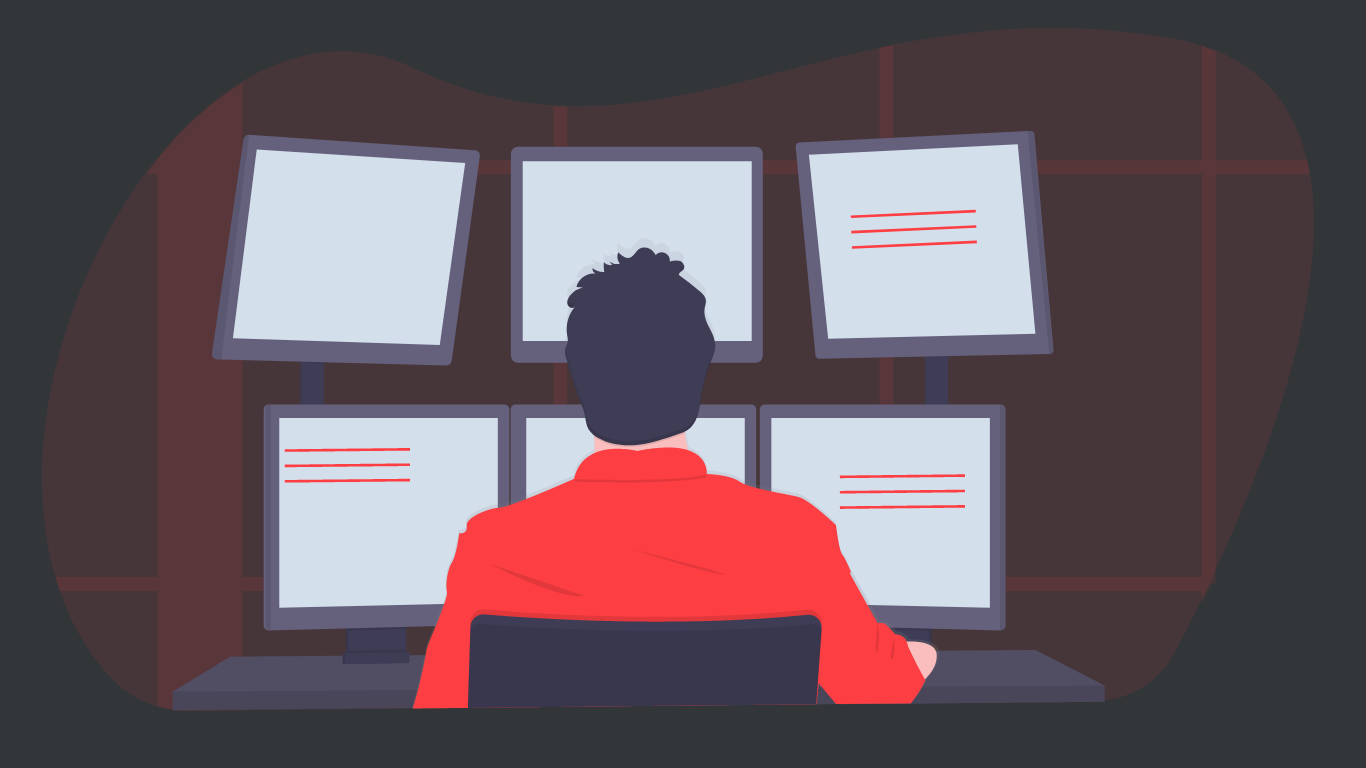
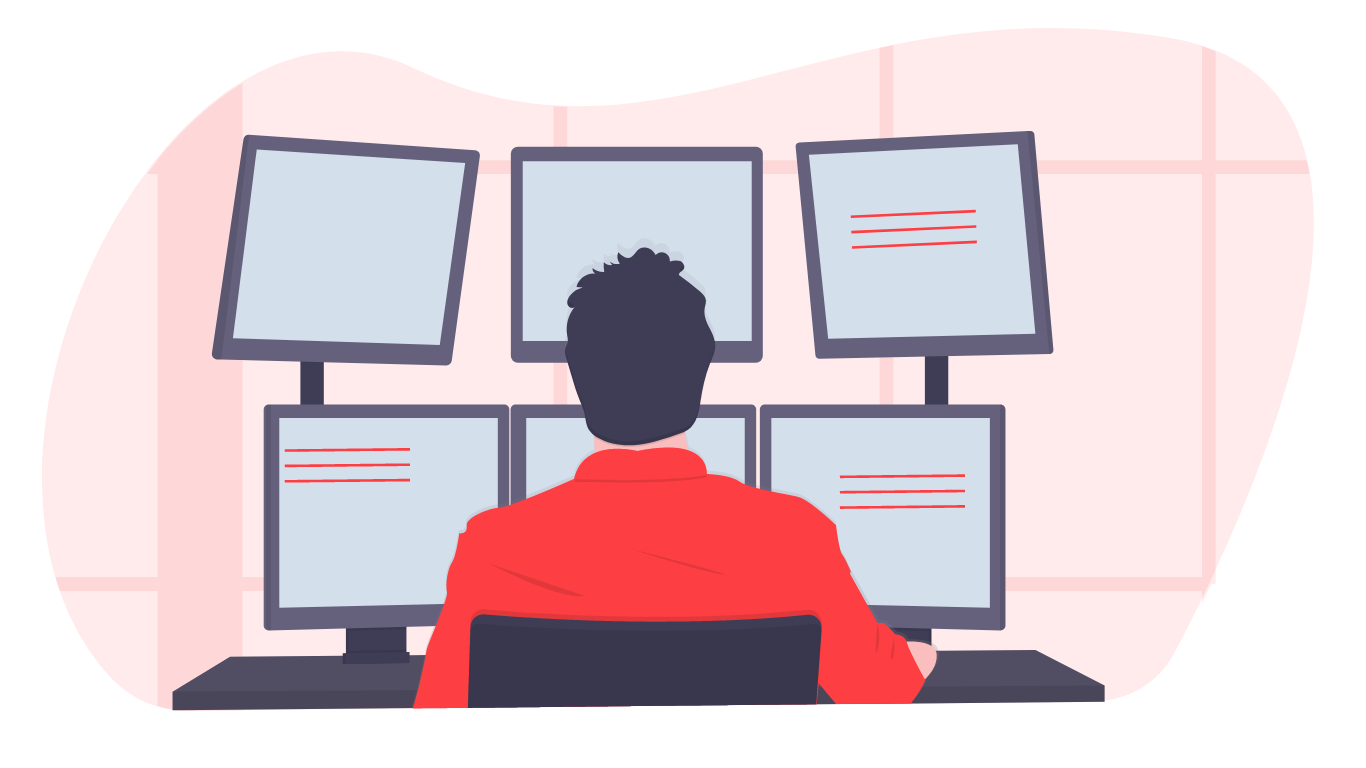
first commit

diff --git a/index.html b/index.html
@@ -9,11 +9,12 @@
     <link rel="stylesheet" href="css/bootstrap.min.css" />
     <link rel="stylesheet" href="https://cdn.jsdelivr.net/npm/bootstrap-icons@1.5.0/font/bootstrap-icons.css" />
     <link rel="stylesheet" href="css/my.css" />
+    <link href="https://unpkg.com/boxicons@2.0.9/css/boxicons.min.css" rel="stylesheet" />
 
     <!--AOS -->
     <link rel="stylesheet" href="https://unpkg.com/aos@next/dist/aos.css" />
   </head>
-  <body class="bg-dark">
+  <body>
     <!-- Nav -->
     <nav class="navbar navbar-dark fixed-top bg-dark shadow-lg">
       <div class="container-lg">
@@ -36,7 +37,7 @@
     <!-- Home -->
     <section class="home py-5" id="home">
       <div class="container-lg">
-        <div class="row bg-dark min-vh-100 align-items-center align-content-center">
+        <div class="row bg-light min-vh-100 align-items-center align-content-center">
           <div class="col-md-6 mt-5 mt-md-0">
             <div class="home-img text-center">
               <img src="img/bg.png" class="mw-100" alt="profile img" />
@@ -46,9 +47,9 @@
             <div class="home-text">
               <p class="text-muted mb-1" data-aos="fade-right" data-aos-duration="2000" data-aos-delay="100">Hello I'm</p>
               <h1 class="text">Web developer | ui/ux designer</h1>
-              <h2 class="fs-4 text-white" data-aos="fade-left" data-aos-anchor="#example-anchor" data-aos-offset="500" data-aos-duration="2500">Joddy Lintar Balle</h2>
+              <h2 class="fs-4 text-dark" data-aos="fade-left" data-aos-anchor="#example-anchor" data-aos-offset="500" data-aos-duration="2500">Joddy Lintar Balle</h2>
               <p class="mt-4 text-muted">
-                I am interested in becoming a web developer. I started learning web development by making ui web designs or applications. Then when I was in college I majored in Computer Engineering, IPB University Vocational School. Until
+                I am interested in becoming a web developer. I started learning web developer by making ui web designs or applications. Then when I was in college I majored in Computer Engineering, IPB University Vocational School. Until
                 now, I am still active in studying front-end developers and web/app design. For more details, I include it in the projects section
               </p>
               <a href="#projects" class="btn btn-danger px-3 mt-3">My Projects</a>
@@ -65,7 +66,7 @@
         <div class="row justify-content-center">
           <div class="col-lg-8">
             <div class="section-title text-center">
-              <h2 class="fw-bold mb-5 text-light">About Me</h2>
+              <h2 class="fw-bold mb-5 text-dark">About Me</h2>
             </div>
           </div>
         </div>
@@ -77,12 +78,12 @@
           </div>
           <div class="col-md-8">
             <div class="about-text">
-              <h3 class="fs-4 mb-3 text-light">I'm Joddy Lintar Balle and I'm a <span class="text-danger"> WEB DEVELOPMENT </span></h3>
+              <h3 class="fs-4 mb-3 text-dark">I'm Joddy Lintar Balle and I'm a <span class="text-danger"> WEB DEVELOPER </span></h3>
               <p class="text-muted">
                 Hello! I am Joddy Lintar Balle Born in Minangkabau land. I obtained a D3 degree in Computer Engineering from the Vocational School of Ipb University in 2021. I had an interest in Web developers while in college and, I was
                 very active in making UI/UX Web designs. I am a creative person and like to find alternative solutions to various problems. I'm also open to all possible solutions. Creativity helps me to be a good leader because I can
                 anticipate various problems Science major. I can operate a computer well. I am very enthusiastic about everything programming and always feel challenged to work on new projects making web or mobile-based applications. I can
-                design web or applications. I'm also proficient in Adobe xd software, Adobe illustrator, and front-end development.
+                design web or applications. I'm also proficient in Adobe xd software, Adobe illustrator, and front-end developer.
               </p>
             </div>
             <div class="row">
@@ -92,7 +93,7 @@
                   <a href="https://www.facebook.com/joddy.l.balle/" class="text-danger me-2"><i class="fab fa-facebook-f"></i></a>
                   <a href="https://twitter.com/joddylintar2" class="text-danger me-2"><i class="fab fa-twitter"></i></a>
                   <a href="https://www.instagram.com/joddy_balle/" class="text-danger me-2"><i class="fab fa-instagram"></i></a>
-                  <a href="https://www.linkedin.com/in/joddy-lintarballe-b25a59218/" class="text-danger me-2"><i class="fab fa-linkedin-in"></i></a>
+                  <a href="https://www.linkedin.com/in/joddyballe/" class="text-danger me-2"><i class="fab fa-linkedin-in"></i></a>
                 </div>
               </div>
             </div>
@@ -102,71 +103,13 @@
     </section>
     <!-- akhir about me -->
 
-    <!-- my skills -->
-    <section class="skills py-5" id="skills">
-      <div class="container-lg py-4" data-aos="fade-in">
-        <div class="row justify-content-center">
-          <div class="col-lg-8">
-            <div class="section-title text-center">
-              <h2 class="fw-bold mb-5 text-light">My skills</h2>
-            </div>
-          </div>
-        </div>
-        <div class="row">
-          <div class="col-md-6">
-            <div class="skills-text">
-              <h3 class="fs-4 mb-3 text-light">I'm Freshgraduate</h3>
-              <p class="text-muted">
-                I am a creative person and like to find alternative solutions to various problems. I'm also open to all the possible solutions. Creativity helps me to be a good leader because I can anticipate various problems. I can operate
-                a computer well. I am very enthusiastic about everything programming and always feel challenged to work on new projects making web or mobile-based applications. I can design web or applications. I'm also proficient in Adobe
-                xd software, Adobe illustrator, and front-end development.
-              </p>
-            </div>
-          </div>
-          <div class="col-md-6 mt-5 mt-md-0">
-            <div class="skills-item mb-4">
-              <h3 class="fs-6 text-muted">Html</h3>
-              <div class="progress" style="height: 12px">
-                <div class="progress-bar bg-danger" role="progressbar" style="width: 70%" aria-valuenow="70" aria-valuemin="0" aria-valuemax="100"></div>
-              </div>
-            </div>
-            <div class="skills-item mb-4">
-              <h3 class="fs-6 text-muted">Css</h3>
-              <div class="progress" style="height: 12px">
-                <div class="progress-bar bg-danger" role="progressbar" style="width: 60%" aria-valuenow="60" aria-valuemin="0" aria-valuemax="100"></div>
-              </div>
-            </div>
-            <div class="skills-item mb-4">
-              <h3 class="fs-6 text-muted">javascript</h3>
-              <div class="progress" style="height: 12px">
-                <div class="progress-bar bg-danger" role="progressbar" style="width: 40%" aria-valuenow="40" aria-valuemin="0" aria-valuemax="100"></div>
-              </div>
-            </div>
-            <div class="skills-item mb-4">
-              <h3 class="fs-6 text-muted">Adobe illustrator</h3>
-              <div class="progress" style="height: 12px">
-                <div class="progress-bar bg-danger" role="progressbar" style="width: 60%" aria-valuenow="60" aria-valuemin="0" aria-valuemax="100"></div>
-              </div>
-            </div>
-            <div class="skills-item mb-4">
-              <h3 class="fs-6 text-muted">Adobe Xd</h3>
-              <div class="progress" style="height: 12px">
-                <div class="progress-bar bg-danger" role="progressbar" style="width: 75%" aria-valuenow="75" aria-valuemin="0" aria-valuemax="100"></div>
-              </div>
-            </div>
-          </div>
-        </div>
-      </div>
-    </section>
-    <!-- akhir my skills -->
-
     <!-- services -->
     <section class="services py-5" id="services">
       <div class="container-lg py-4" data-aos="fade-in">
         <div class="row justify-content-center">
           <div class="col-lg-8">
             <div class="section-title text-center">
-              <h2 class="fw-bold mb-5 text-white">What I Do</h2>
+              <h2 class="fw-bold mb-5 text-dark">MySkills</h2>
             </div>
           </div>
         </div>
@@ -176,15 +119,17 @@
               <div class="icon my-3 text-danger fs-2">
                 <i class="fas fa-code"></i>
               </div>
-              <h3 class="fs-5 py-2 text-white">Web Development</h3>
+              <h3 class="fs-5 py-2 text-white">Front End Developer</h3>
+              <h4 class="fs-5 py-2 text-muted">CSS | Html | JavaScrip | Bootstrap</h4>
             </div>
           </div>
           <div class="col-md-6 col-lg-4 mb-5">
-            <div class="services-item shadow-lg p-4 rounded bg-white">
+            <div class="services-item shadow-lg p-4 rounded bg-dark">
               <div class="icon my-3 text-danger fs-2">
-                <i class="fas fa-code"></i>
+                <i class="fas fa-laptop"></i>
               </div>
-              <h3 class="fs-5 py-2">front end developer</h3>
+              <h3 class="fs-5 py-2 text-white">Software</h3>
+              <h4 class="fs-5 py-2 text-muted">Adobe Illustratore | Photoshop | Blender</h4>
             </div>
           </div>
           <div class="col-md-6 col-lg-4 mb-5">
@@ -192,7 +137,8 @@
               <div class="icon my-3 text-danger fs-2">
                 <i class="fas fa-lightbulb shadow"></i>
               </div>
-              <h3 class="fs-5 py-2 text-light">UI/UX Designer</h3>
+              <h3 class="fs-5 py-2 text-white">UI/UX Designer</h3>
+              <h4 class="fs-5 py-2 text-muted">Adobe Xd | Figma</h4>
             </div>
           </div>
         </div>
@@ -206,45 +152,62 @@
         <div class="row justify-content-center">
           <div class="col-lg-8">
             <div class="section-title text-center">
-              <h2 class="fw-bold mb-5 text-light">My Projects</h2>
+              <h2 class="fw-bold mb-5 text-dark">My Projects</h2>
             </div>
           </div>
         </div>
-        <div class="row">
+        <div class="row justify-content-center">
           <div class="col-md-6 col-lg-6">
             <div class="projects-item">
-              <img src="img/portfolio/1.jpg" class="w-100 img-thumbnail" alt="projects-item" />
-              <h3 class="text-capitalize fs-5 my-4 text-white">projects car rental</h3>
+              <img src="img/portfolio/1.jpg" class="w-100 img-thumbnail" alt="projects-item" /><a
+                href="https://dribbble.com/shots/16197295-Project-PT-PIN?utm_source=Clipboard_Shot&utm_campaign=joddyballe&utm_content=Project%20PT-PIN&utm_medium=Social_Share&utm_source=Clipboard_Shot&utm_campaign=joddyballe&utm_content=Project%20PT-PIN&utm_medium=Social_Share"
+                style="text-decoration: none"
+              >
+                <h3 class="text-capitalize fs-5 my-4 text-danger text-center">Projects PT-PIN</h3></a
+              >
             </div>
           </div>
           <div class="col-md-6 col-lg-6">
             <div class="projects-item">
               <img src="img/portfolio/2.jpg" class="w-100 img-thumbnail" alt="projects-item" />
-              <h3 class="text-capitalize fs-5 my-4 text-white">Projects App rice field pest repellent</h3>
+              <a
+                href="https://dribbble.com/shots/16197188-App-rice-field-pest-repellent?utm_source=Clipboard_Shot&utm_campaign=joddyballe&utm_content=App%20rice%20field%20pest%20repellent&utm_medium=Social_Share&utm_source=Clipboard_Shot&utm_campaign=joddyballe&utm_content=App%20rice%20field%20pest%20repellent&utm_medium=Social_Share"
+                style="text-decoration: none"
+              >
+                <h3 class="text-capitalize fs-5 my-4 text-danger text-center">Projects App rice field pest repellent</h3></a
+              >
             </div>
           </div>
           <div class="col-md-6 col-lg-6">
             <div class="projects-item">
               <img src="img/portfolio/3.jpg" class="w-100 img-thumbnail" alt="projects-item" />
-              <h3 class="text-capitalize fs-5 my-4 text-white text-center">Projects JaheLabs.Co</h3>
+              <a
+                href="https://dribbble.com/shots/16197265-Web-Jahe-LABS-co?utm_source=Clipboard_Shot&utm_campaign=joddyballe&utm_content=Web%20Jahe%20LABS.co&utm_medium=Social_Share&utm_source=Clipboard_Shot&utm_campaign=joddyballe&utm_content=Web%20Jahe%20LABS.co&utm_medium=Social_Share"
+                style="text-decoration: none"
+              >
+                <h3 class="text-capitalize fs-5 my-4 text-danger text-center">Projects JaheLabs.Co</h3></a
+              >
             </div>
           </div>
           <div class="col-md-6 col-lg-6">
             <div class="projects-item">
               <img src="img/portfolio/4.jpg" class="w-100 img-thumbnail" alt="projects-item" />
-              <h3 class="text-capitalize fs-5 my-4 text-white">Projects TechLife</h3>
+              <a
+                href="https://dribbble.com/shots/16201127-Project-Techlife?utm_source=Clipboard_Shot&utm_campaign=joddyballe&utm_content=Project%20Techlife&utm_medium=Social_Share&utm_source=Clipboard_Shot&utm_campaign=joddyballe&utm_content=Project%20Techlife&utm_medium=Social_Share"
+                style="text-decoration: none"
+              >
+                <h3 class="text-capitalize fs-5 my-4 text-danger text-center">Projects TechLife</h3></a
+              >
             </div>
           </div>
           <div class="col-md-6 col-lg-6">
             <div class="projects-item">
               <img src="img/portfolio/5.jpg" class="w-100 img-thumbnail" alt="projects-item" />
-              <h3 class="text-capitalize fs-5 my-4 text-white text-center">Projects PT-PIN</h3>
-            </div>
-          </div>
-          <div class="col-md-6 col-lg-6">
-            <div class="projects-item">
-              <img src="img/portfolio/6.jpg" class="w-100 img-thumbnail" alt="projects-item" />
-              <h3 class="text-capitalize fs-5 my-4 text-white">Filterable image gallery</h3>
+              <a
+                href="https://dribbble.com/shots/16203006-App-Siome?utm_source=Clipboard_Shot&utm_campaign=joddyballe&utm_content=App%20Siome&utm_medium=Social_Share&utm_source=Clipboard_Shot&utm_campaign=joddyballe&utm_content=App%20Siome&utm_medium=Social_Share"
+                style="text-decoration: none"
+                ><h3 class="text-capitalize fs-5 my-4 text-danger text-center">Ui Ux app design SIOME</h3></a
+              >
             </div>
           </div>
         </div>
@@ -258,7 +221,7 @@
         <div class="row justify-content-center">
           <div class="col-lg-8">
             <div class="section-title text-center">
-              <h2 class="fw-bold mb-5 text-white">Contact Me</h2>
+              <h2 class="fw-bold mb-5 text-dark">Contact Me</h2>
             </div>
           </div>
         </div>
@@ -269,7 +232,7 @@
                 <i class="fas fa-envelope"></i>
               </div>
               <div class="text ms-3">
-                <h3 class="fs-5 text-white">Email</h3>
+                <h3 class="fs-5 text-dark">Email</h3>
                 <p class="text-muted">joddylintarballe@gmail.com</p>
               </div>
             </div>
@@ -278,7 +241,7 @@
                 <i class="fas fa-phone"></i>
               </div>
               <div class="text ms-3">
-                <h3 class="fs-5 text-white">Phone</h3>
+                <h3 class="fs-5 text-dark">Phone</h3>
                 <p class="text-muted">+62 8228 3743 635</p>
               </div>
             </div>
@@ -287,8 +250,8 @@
                 <i class="fas fa-map-marker-alt"></i>
               </div>
               <div class="text ms-3">
-                <h3 class="fs-5 text-white">Visit Office</h3>
-                <p class="text-muted">Bogor Kota,Bogor baru taman Jl.Cimanuk B1 no 33</p>
+                <h3 class="fs-5 text-dark">Visit Office</h3>
+                <p class="text-muted">Bogor City, West Java, Indonesia</p>
               </div>
             </div>
           </div>
@@ -340,6 +303,7 @@
 
     <script src="js/bootstrap.bundle.min.js"></script>
     <script src="https://unpkg.com/aos@next/dist/aos.js"></script>
+    <script src="https://unpkg.com/boxicons@2.0.9/dist/boxicons.js"></script>
 
     <script>
       AOS.init();
